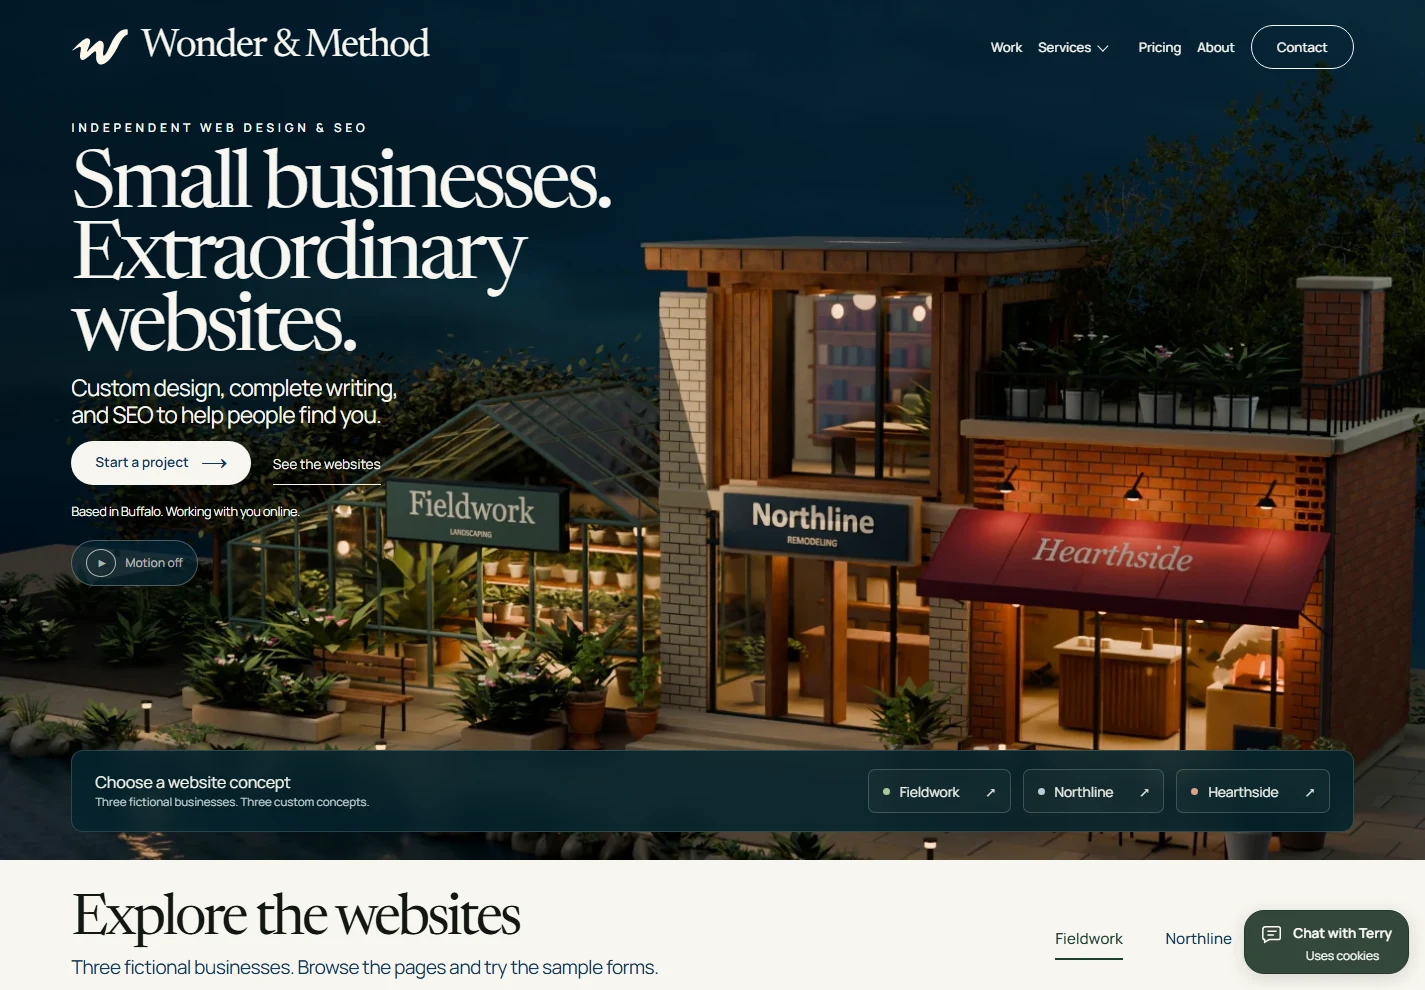
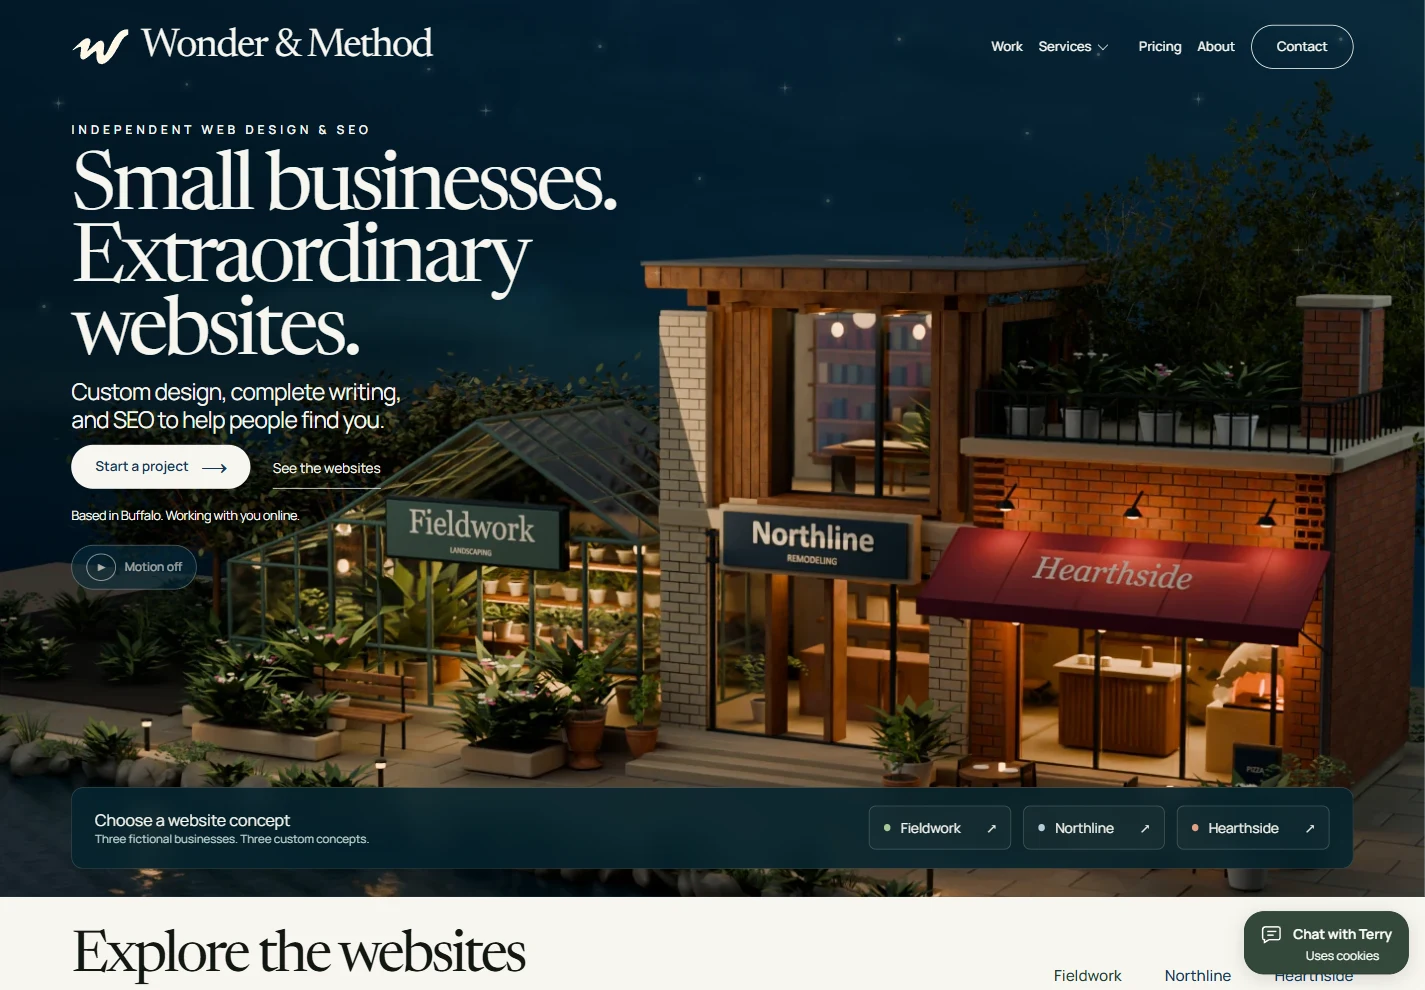
Polish Living City stars and website card entrances

diff --git a/src/assets/living-city.css b/src/assets/living-city.css
@@ -121,5 +121,60 @@ html:not(.nav-ready) .studio-home.edition-living-city .city-copy{padding-top:26p
 @media(max-width:767px){
  .city-copy{padding:calc(var(--site-header-height,84px) + 10px) 6.4% 0}.city-copy h1{font-size:clamp(2rem,10.5vw,4.5rem)}.city-copy .city-lede{font-size:clamp(.95rem,3.9vw,1.55rem);max-width:30ch}.city-actions{display:flex;gap:8px 20px}.city-copy .city-primary{font-size:.82rem;padding:8px 20px}.city-explore{font-size:.78rem}.city-copy .city-location{font-size:.72rem;margin-top:8px;max-width:none}.city-controls{margin:12px 0 0;max-width:100%;gap:2px 5px}.city-controls button{font-size:.72rem;padding:5px 9px}.city-controls [data-city-replay]{font-size:.7rem}.city-controls .city-status{width:auto;max-width:100%}.city-showcase{min-height:25rem;width:87.2%;margin:20px 6.4% 0}.city-reveal-bar{padding:8px 10px;font-size:8px}.city-reveal img{aspect-ratio:1240/720}.city-reveal-copy{padding:17px 19px}.city-reveal-copy h2{font-size:1.8rem}.city-reveal-copy p{font-size:.85rem}.city-reveal-copy .city-reveal-category{font-size:.6rem}.city-reveal-copy a{font-size:.78rem}.city-scene{height:max(640px,146.86vw);bottom:160px}.city-chooser{margin:20px 6.4% 0;padding:14px 15px;display:block}.city-chooser p{font-size:.9rem;margin-bottom:10px}.city-chooser p>span{display:block;margin-left:0;font-size:.72rem}.city-chooser>div{display:grid;grid-template-columns:repeat(auto-fit,minmax(min(100%,4.4rem),1fr));gap:6px}.city-choice{font-size:clamp(.75rem,3.3vw,.8rem);padding:7px 1px;gap:3px;white-space:nowrap;justify-content:center}.city-choice>span:last-child{display:none}.city-choice-dot{width:5px;height:5px;flex-shrink:0}.city-project{display:flex;flex-direction:column;gap:22px}.city-project-copy{order:-1;padding-top:6px}.city-preview{width:100%;height:auto;max-height:none;aspect-ratio:auto;overflow:hidden}.city-preview img{object-fit:cover;object-position:top}.city-project-copy .city-description{font-size:.95rem;line-height:1.55}.city-features{font-size:.83rem;margin-top:16px}.city-project-actions{margin-top:15px;gap:10px 18px}.city-demo-note{font-size:.7rem}
 }
+/* Staggered points of light stay in the sky and share the film's pause state. */
+.city-stars{position:absolute;inset:0 0 auto;height:42%;z-index:-1;pointer-events:none;overflow:hidden}
+.city-star{position:absolute;left:var(--star-x);top:var(--star-y);width:3px;height:3px;border-radius:50%;background:#fff2cf;box-shadow:0 0 7px 2px #d8e8ff88;opacity:.25;animation:city-twinkle var(--star-period,4s) ease-in-out var(--star-delay,0s) infinite;animation-play-state:paused}
+.city-star:nth-child(3n+1)::before,.city-star:nth-child(3n+1)::after{content:'';position:absolute;left:50%;top:50%;width:15px;height:1px;transform:translate(-50%,-50%);background:linear-gradient(90deg,transparent,#fff4d9,transparent)}
+.city-star:nth-child(3n+1)::after{transform:translate(-50%,-50%) rotate(90deg)}
+.city-star:nth-child(1){--star-x:4%;--star-y:27%;--star-period:3.6s;--star-delay:-1.1s}
+.city-star:nth-child(2){--star-x:13%;--star-y:22%;--star-period:4.9s;--star-delay:-3.1s}
+.city-star:nth-child(3){--star-x:22%;--star-y:8%;--star-period:3.9s;--star-delay:-2.2s}
+.city-star:nth-child(4){--star-x:34%;--star-y:29%;--star-period:4.4s;--star-delay:-.3s}
+.city-star:nth-child(5){--star-x:42%;--star-y:12%;--star-period:5.3s;--star-delay:-4.2s}
+.city-star:nth-child(6){--star-x:49%;--star-y:47%;--star-period:4.1s;--star-delay:-1.9s}
+.city-star:nth-child(7){--star-x:55%;--star-y:23%;--star-period:3.8s;--star-delay:-2.7s}
+.city-star:nth-child(8){--star-x:63%;--star-y:10%;--star-period:5.1s;--star-delay:-.8s}
+.city-star:nth-child(9){--star-x:72%;--star-y:35%;--star-period:4.6s;--star-delay:-3.5s}
+.city-star:nth-child(10){--star-x:84%;--star-y:26%;--star-period:4.2s;--star-delay:-1.8s}
+.city-star:nth-child(11){--star-x:94%;--star-y:10%;--star-period:5.5s;--star-delay:-4.7s}
+.city-star:nth-child(12){--star-x:98%;--star-y:51%;--star-period:3.7s;--star-delay:-.6s}
+.city-star:nth-child(13){--star-x:46%;--star-y:72%;--star-period:4.8s;--star-delay:-2.5s}
+.city-star:nth-child(14){--star-x:3%;--star-y:81%;--star-period:5.2s;--star-delay:-3.6s}
+.city-star:nth-child(15){--star-x:58%;--star-y:53%;--star-period:4.3s;--star-delay:-.4s}
+.city-star:nth-child(16){--star-x:91%;--star-y:66%;--star-period:3.9s;--star-delay:-3.2s}
+.city-star:nth-child(17){--star-x:30%;--star-y:18%;--star-period:4.7s;--star-delay:-1.3s}
+.city-star:nth-child(18){--star-x:77%;--star-y:14%;--star-period:5.4s;--star-delay:-2.1s}
+.is-city-playing .city-star{animation-play-state:running}
+@keyframes city-twinkle{0%,100%{opacity:.18;transform:scale(.6)}35%{opacity:.35;transform:scale(.85)}52%{opacity:1;transform:scale(1.5)}70%{opacity:.3;transform:scale(.8)}}
+/* Each real website turns into view, then rests flat so its type stays sharp. */
+.city-reveal{--reveal-ink:#233e32;--reveal-light:#bfd6a9;--reveal-turn:4deg;--reveal-drift:34px;border-color:#f8f6ef80;border-radius:15px;box-shadow:0 32px 80px -18px #00141ff2,0 0 36px -20px var(--reveal-light);transform-origin:50% 65%;transform:translateY(-18px) scale(.97);transition:opacity .38s ease,transform .5s ease,visibility .4s}
+.city-reveal--northline{--reveal-ink:#203944;--reveal-light:#b8d5e4;--reveal-turn:-4deg;--reveal-drift:-30px}
+.city-reveal--hearthside{--reveal-ink:#682e31;--reveal-light:#efb693;--reveal-turn:3deg;--reveal-drift:26px}
+.city-reveal{background:var(--reveal-ink)}
+.city-reveal[data-active=true]{z-index:2;animation:city-card-arrive .95s cubic-bezier(.16,1,.3,1) backwards;animation-play-state:paused}
+.city-reveal-bar{background:#f8f6ef;padding:11px 15px;color:var(--reveal-ink)}
+.city-reveal-dots{color:var(--reveal-ink);opacity:.5}
+.city-reveal-window{position:relative;overflow:hidden;border-bottom:3px solid var(--reveal-light)}
+.city-reveal-gleam{position:absolute;inset:-10% -50%;pointer-events:none;opacity:0;background:linear-gradient(110deg,transparent 37%,#fff9 49%,transparent 61%);transform:translateX(-70%)}
+.city-reveal-copy{border:0;background:var(--reveal-ink);color:#f8f6ef;padding:21px 25px 23px}
+.city-reveal-copy .city-reveal-category,.city-reveal--northline .city-reveal-category,.city-reveal--hearthside .city-reveal-category{color:var(--reveal-light);letter-spacing:.18em}
+.city-reveal-copy h2{color:#f8f6ef;font-size:2.5rem;margin-bottom:10px}
+.city-reveal-copy p{color:#f8f6ef}
+.city-reveal-copy a{color:#f8f6ef;border:1px solid #f8f6ef55;border-radius:999px;min-height:44px;margin-top:15px;padding:8px 15px;text-decoration:none;justify-content:space-between;gap:24px;transition:background .2s,border-color .2s}
+.city-reveal-copy a:hover{background:#f8f6ef17;border-color:#f8f6efb3}
+.city-reveal-copy a>span{font-size:1.2rem}
+.city-reveal[data-active=true] .city-reveal-gleam{animation:city-card-gleam 1.05s .14s ease-out backwards;animation-play-state:paused}
+.city-reveal[data-active=true] .city-reveal-copy>*{animation:city-caption-arrive .65s cubic-bezier(.16,1,.3,1) backwards;animation-delay:.16s;animation-play-state:paused}
+.city-reveal[data-active=true] .city-reveal-copy h2{animation-delay:.22s}
+.city-reveal[data-active=true] .city-reveal-copy>p:not(.city-reveal-category){animation-delay:.28s}
+.city-reveal[data-active=true] .city-reveal-copy>a{animation-delay:.34s}
+.is-city-playing .city-reveal[data-active=true],.is-city-playing .city-reveal[data-active=true] .city-reveal-gleam,.is-city-playing .city-reveal[data-active=true] .city-reveal-copy>*{animation-play-state:running}
+/* Keyboard focus must never hold a link inside its invisible entrance delay. */
+.city-reveal[data-settled=true],.city-reveal[data-settled=true] .city-reveal-copy>*{animation:none!important;transition:none;transform:none;opacity:1}
+@keyframes city-card-arrive{0%{opacity:0;transform:perspective(1400px) translate(var(--reveal-drift),55px) rotateY(-8deg) rotateZ(var(--reveal-turn)) scale(.9)}68%{opacity:1;transform:perspective(1400px) translate(0,-5px) rotateY(0) rotateZ(-.6deg) scale(1.008)}100%{opacity:1;transform:none}}
+@keyframes city-caption-arrive{from{opacity:0;transform:translateY(13px)}to{opacity:1;transform:none}}
+@keyframes city-card-gleam{0%{opacity:0;transform:translateX(-65%)}25%{opacity:.6}100%{opacity:0;transform:translateX(65%)}}
+@media(max-width:1023px){.city-stars{height:34%}.city-star:nth-child(3n+1)::before,.city-star:nth-child(3n+1)::after{width:12px}.city-reveal{--reveal-drift:12px;--reveal-turn:2deg}.city-reveal--northline{--reveal-drift:-12px;--reveal-turn:-2deg}}
+@media(max-width:767px){.city-reveal{border-radius:12px}.city-reveal-bar{padding:9px 11px}.city-reveal-copy{padding:18px 20px}.city-reveal-copy h2{font-size:2rem}.city-reveal-copy a{margin-top:12px;padding:7px 13px}.city-star{width:2px;height:2px}.city-star:nth-child(4){--star-x:94%;--star-y:40%}.city-star:nth-child(7){--star-x:89%;--star-y:73%}.city-star:nth-child(10){--star-x:4%;--star-y:87%}.city-star:nth-child(13){--star-x:96%;--star-y:95%}.city-star:nth-child(16){--star-x:51%;--star-y:18%}}
 @media(prefers-reduced-motion:reduce){.living-city *,.studio-home.edition-living-city .site-header{animation:none!important;transition:none!important;scroll-behavior:auto!important}}
 @media print{.studio-home.edition-living-city .site-header{position:relative;background:#052b3b}.city-controls,.city-tabs{display:none!important}.city-project[hidden]{display:grid}.city-film{display:none}.city-hero{min-height:0;aspect-ratio:3/2}.city-copy{padding-top:40px}.city-projects{break-before:page}}

diff --git a/motion/living-city.js b/motion/living-city.js
@@ -50,6 +50,7 @@ export function mountLivingCity(root, env = globalThis) {
     for (const card of showcases) {
       const selected = card.dataset.cityShowcase === next;
       card.dataset.active = String(selected);
+      card.dataset.settled = 'false';
       card.inert = !selected;
       card.setAttribute('aria-hidden', String(!selected));
     }
@@ -77,7 +78,7 @@ export function mountLivingCity(root, env = globalThis) {
       replayButton.textContent = 'Replay introduction';
       replayButton.setAttribute('aria-label', 'Replay introduction');
     }
-    for (const card of showcases) for (const animation of card.getAnimations?.() || []) {
+    for (const card of showcases) for (const animation of card.getAnimations?.({subtree:true}) || []) {
       if (phase === 'playing' && animation.playState === 'paused') animation.play();
       else if (phase !== 'playing' && animation.playState === 'running') animation.pause();
     }
@@ -305,7 +306,11 @@ export function mountLivingCity(root, env = globalThis) {
     card.hidden = false;
     card.inert = true;
     card.setAttribute('aria-hidden', 'true');
-    listen(card, 'focusin', () => pause());
+    listen(card, 'focusin', () => {
+      // Finish this entrance for keyboard reading, including after focus leaves.
+      card.dataset.settled = 'true';
+      pause();
+    });
   }
 
   if (video && playButton) {

diff --git a/operations/LIVING_CITY_20261020.md b/operations/LIVING_CITY_20261020.md
@@ -6,6 +6,7 @@ The Living City edition pairs a rendered waterfront neighborhood with a native p
 
 - The homepage opens with a still, then starts a twelve-second introduction automatically when motion is allowed. One four-second seamless city film is chosen for the screen width. Native website previews appear in sequence: Fieldwork at 1.5 seconds, Northline at 4.5, Hearthside at 7.5, then an unobstructed city from 10.5 seconds. At twelve seconds the introduction ends and the subtle city ambience continues.
 - Pause and replay control both the previews and the city. Leaving the scene or backgrounding the tab suspends playback. A visitor's explicit play or pause choice is remembered for the current browser tab. Reduced-motion and data-saving settings retain the still without requesting the film automatically. A blocked autoplay exposes a play action; a loading or playback failure restores the still and offers retry.
+- Staggered stars brighten on repeating 3.6–5.5-second cycles, continuing through the ambient ending. Each website card turns into view, receives a soft light sweep and reveals its branded caption in sequence, then rests without a transform for crisp text. Pause also holds the stars and caption animations. Keyboard focus settles the current card immediately and keeps it readable after focus leaves; replay restores the entrance. Reduced motion leaves the stars still and disables the tour.
 - The header blends with the opening scene and stays fixed while scrolling, switching to a readable paper background. Scene links reveal the matching project below the header, including when revisiting a fragment through browser history.
 - The portfolio sits below the scene and is available immediately. Keyboard arrows, Home and End select the matching business, screenshot and named destination together. Without JavaScript, all three concepts remain visible. Motion never forces a scroll or substitutes for a link.
 - Screenshots come from the actual concept pages. `scripts/capture-city-previews.mjs` records their capture dimensions and source fingerprints in `src/city-preview-captures.json`.

diff --git a/deployment/PRODUCTION.md b/deployment/PRODUCTION.md
@@ -1,6 +1,6 @@
 # Production website
 
-Current source revision: [Living City homepage and Buffalo Work archive](../operations/LIVING_CITY_20261020.md): a twelve-second introduction with native website showcases, a seamless ambient city loop and a fixed header, with the preserved Buffalo animation on its own Work page. Motion starts automatically when visitor preferences permit it. The refinement preserves all 286 pages, 285 sitemap URLs and 23 guides. Migration 0016 was applied in the preceding Living City release; this refinement requires no new migration. Use the private Living City refinement release record for verified publication identity.
+Current source revision: [Living City homepage and Buffalo Work archive](../operations/LIVING_CITY_20261020.md): a twelve-second introduction with native website showcases, a seamless ambient city loop and a fixed header, with the preserved Buffalo animation on its own Work page. The October 21 motion polish adds staggered looping stars and branded card entrances that settle into crisp text. Motion starts automatically when visitor preferences permit it. The update preserves all 286 pages, 285 sitemap URLs and 23 guides. Migration 0016 was applied in the preceding Living City release; this update requires no new migration. Use the private Living City pizzazz release record for verified publication identity.
 
 Previous source revision: [practical content and planning tools](../operations/CONTENT_GAPS_20261020.md): six new guides, nine downloads, expanded guidance and a browser-only ROI calculator. That release contained 285 pages and 284 sitemap URLs. Its private `content-implementation-20261020` release record retains its deployed identity and Google submission result.
 
